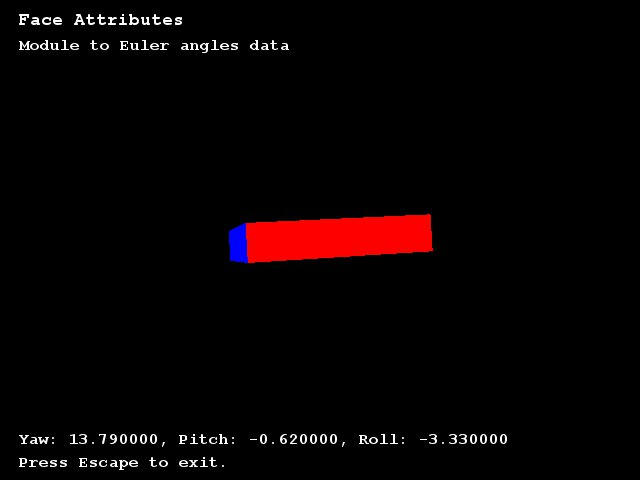
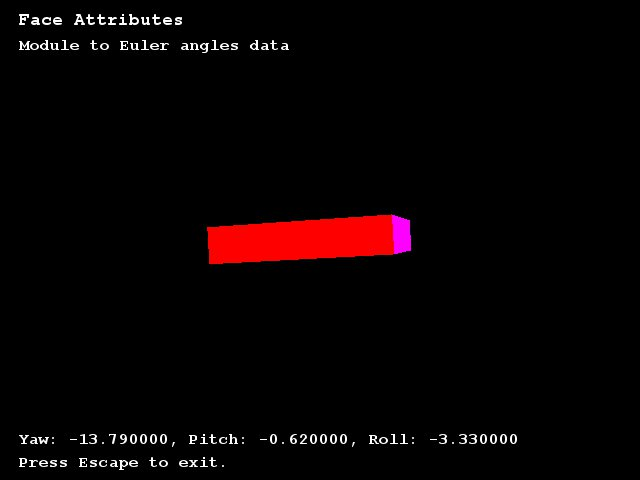
update

diff --git a/rotating_cube.py b/rotating_cube.py
@@ -26,7 +26,7 @@ def main():
         item = data[i]
         pitch = item['pitch_out']
         roll = item['roll_out']
-        yaw = -item['yaw_out']
+        yaw = item['yaw_out']
         draw(1, yaw, pitch, roll)
         pygame.image.save(screen, "images/{}_angle.jpg".format(i))
 
